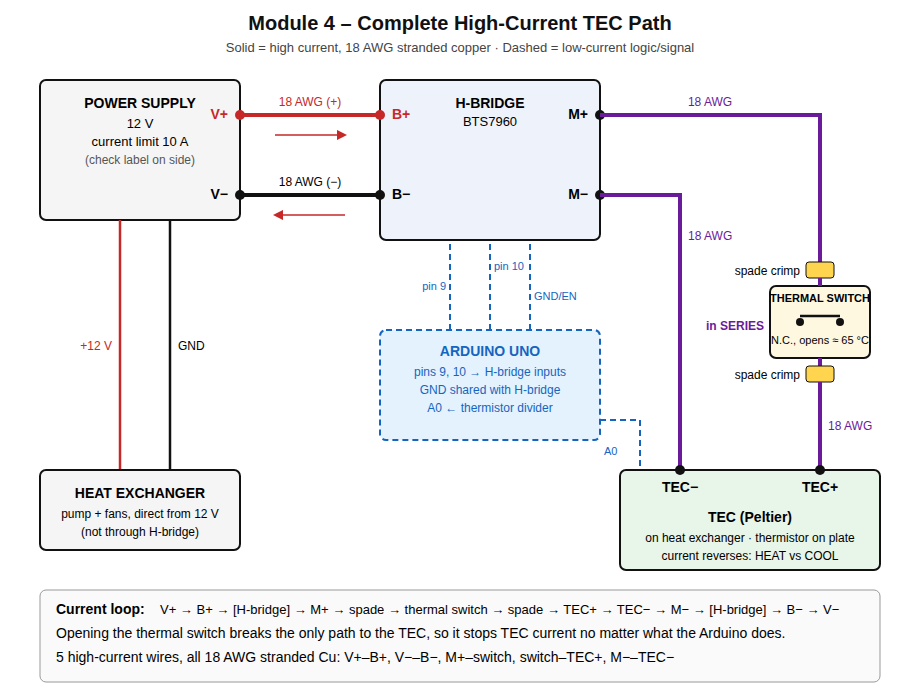
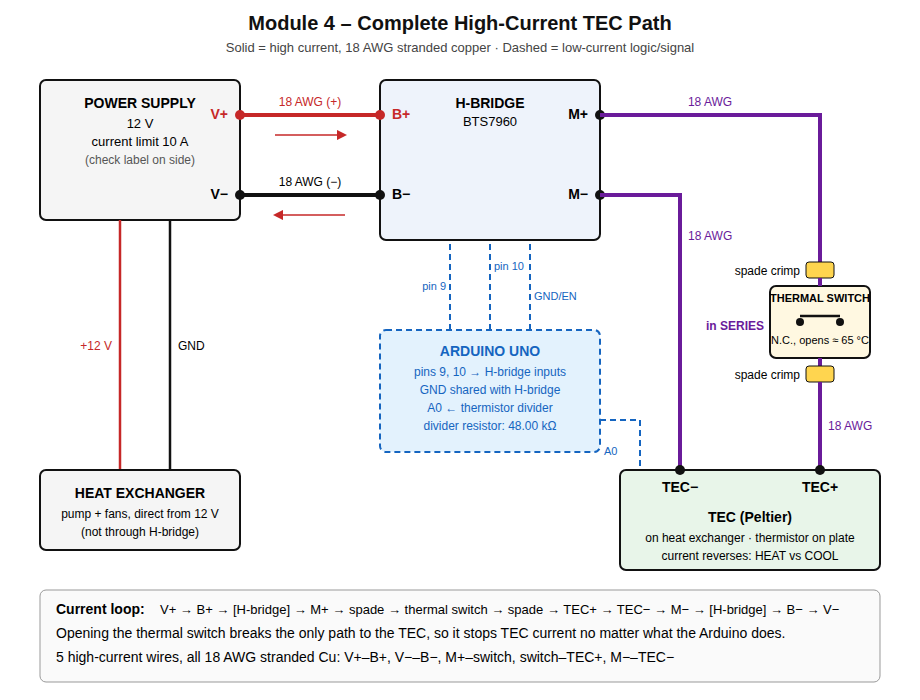
Use 48.00 kOhm thermistor divider resistor for Module 4
The external divider resistor was changed from 100 kOhm (Module 3) to
48.00 kOhm. Update SERIES_RESISTOR in the sketch and record the change in
the Module 4 notes and wiring diagram.

Claude-Session: https://claude.ai/code/session_01PEHAh8ir7Rzr8VMQrsMfe5

Changed region(s): [[0.3957, 0.6, 0.6696, 0.66]]

diff --git a/docs/module_notes/module_04_high_current_path.md b/docs/module_notes/module_04_high_current_path.md
@@ -71,6 +71,12 @@ matter what the Arduino commands.
 | Logic ground | Arduino GND shared with H-bridge logic ground | ☐ |
 | Direction mapping | Heating = PWM on pin ___ ; Cooling = PWM on pin ___ (see note 2) | ☐ |
 
+## Module 4 changes from Module 3
+
+| Item | Module 3 | Module 4 |
+| --- | --- | --- |
+| Thermistor divider external resistor (5 V to A0; thermistor from A0 to GND) | 100 kΩ | **48.00 kΩ** (`SERIES_RESISTOR = 48000.0`) |
+
 ## Things to resolve before sign-off
 
 1. **Thermal-switch rating mismatch.** The Module 3 notes say the switch cuts off at
